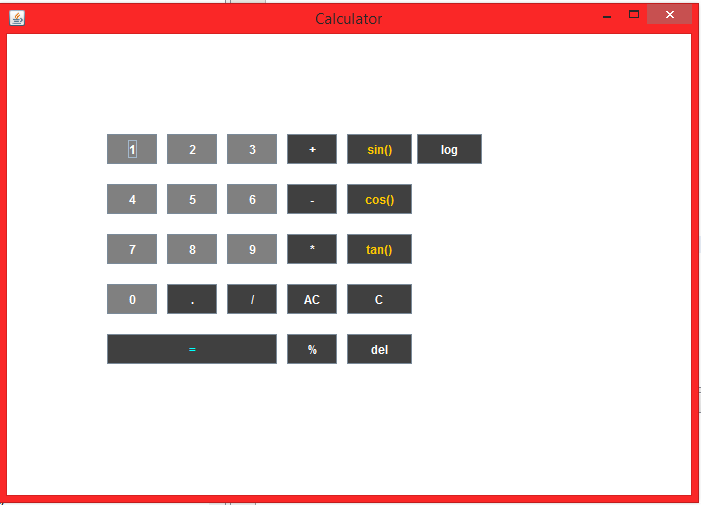
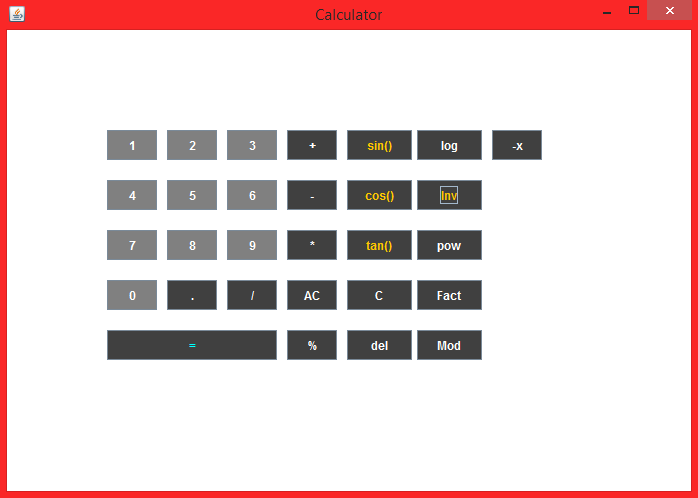
Added alittle more

diff --git a/CalcApp/src/calcapp/CalcApp.java b/CalcApp/src/calcapp/CalcApp.java
@@ -38,17 +38,27 @@ class myJButton extends JFrame implements ActionListener{
     JButton tanButt = new JButton("tan()");
     
     JButton logButt = new JButton("log");
+    JButton invButt = new JButton("Inv");
+    JButton powButt = new JButton("pow");
+    JButton factButt = new JButton("Fact");
+    JButton modButt = new JButton("Mod");
+    
+    JButton plusMinusButt = new JButton("-x");
     
     JButton percentButt= new JButton("%");
     JButton dotButt= new JButton(".");
     JButton equalButt= new JButton("=");
+    
     JButton addButt = new JButton("+");
     JButton subButt = new JButton("-");
     JButton mulButt = new JButton("*");
     JButton divButt = new JButton("/");
+    
     JButton clearButt = new JButton("AC");
     JButton screenClear=new JButton("C");
     JButton delButt = new JButton("del");
+    
+    
     JLabel screen = new JLabel("");
     JLabel prevNum=new JLabel("");
     JLabel operatorScreen=new JLabel("");
@@ -109,6 +119,26 @@ class myJButton extends JFrame implements ActionListener{
         logButt.setBackground(Color.darkGray);
         logButt.setForeground(Color.white);
         
+        invButt.setBounds(410, 150, 65, 30);
+        invButt.setBackground(Color.darkGray);
+        invButt.setForeground(Color.orange);
+        
+        powButt.setBounds(410,200,65,30);
+        powButt.setBackground(Color.darkGray);
+        powButt.setForeground(Color.white);
+        
+        factButt.setBounds(410,250,65,30);
+        factButt.setBackground(Color.darkGray);
+        factButt.setForeground(Color.white);
+        
+        modButt.setBounds(410,300, 65,30);
+        modButt.setBackground(Color.darkGray);
+        modButt.setForeground(Color.white);
+        
+        plusMinusButt.setBounds(485,100,50,30);
+        plusMinusButt.setBackground(Color.darkGray);
+        plusMinusButt.setForeground(Color.white);
+        
         screenClear.setBounds(340,250,65,30);
         screenClear.setBackground(Color.darkGray);
         screenClear.setForeground(Color.white);
@@ -166,7 +196,13 @@ class myJButton extends JFrame implements ActionListener{
         percentButt.addActionListener(this);
         
         logButt.addActionListener(this);
+        invButt.addActionListener(this);
+        powButt.addActionListener(this);
+        factButt.addActionListener(this);
+        modButt.addActionListener(this);
         
+        plusMinusButt.addActionListener(this);
+                
         sineButt.addActionListener(this);
         cosButt.addActionListener(this);
         tanButt.addActionListener(this);
@@ -187,8 +223,12 @@ class myJButton extends JFrame implements ActionListener{
         C1.add(cosButt);
         C1.add(tanButt);
         C1.add(delButt);
+        C1.add(invButt);
         
         C1.add(logButt);
+        C1.add(powButt);
+        C1.add(factButt);
+        C1.add(modButt);
         
         C1.add(screenClear);
         C1.add(clearButt);
@@ -200,13 +240,30 @@ class myJButton extends JFrame implements ActionListener{
         C1.add(dotButt);
         C1.add(percentButt);
         
+        C1.add(plusMinusButt);
+        
         C1.add(operatorScreen);
         C1.add(prevNum);
         C1.add(screen);
 
 
     }
-
+    
+        int inv_flag=0;
+        public void changeTrigono(){
+            if(inv_flag==0){
+                sineButt.setText("asin");
+                cosButt.setText("acos");
+                tanButt.setText("atan");
+                inv_flag=1;
+            }else{
+                sineButt.setText("sin()");
+                cosButt.setText("cos()");
+                tanButt.setText("tan()");
+                inv_flag=0;
+            }
+        }
+    
         public void showInScreen(JButton jButt){
             String result=screen.getText();
             if(jButt.getText().equals(".")){
@@ -280,6 +337,30 @@ class myJButton extends JFrame implements ActionListener{
             refresh=true;
         }
         
+        public void getFactorial(){
+            int num1=Integer.parseInt(screen.getText());
+            int fact=1;
+            for(int i=2;i<=num1;i++){
+                fact=fact*i;
+            }
+            screen.setText(Integer.toString(fact));
+        }
+        
+        public void changeSign(){
+            if(screen.getText().equals("")){
+                return;
+            }
+            double num1=Double.parseDouble(screen.getText());
+            if(num1>0){
+                num1=-num1;
+                plusMinusButt.setText("+x");
+            }else{
+                num1=abs(num1);
+                plusMinusButt.setText("-x");
+            }
+            screen.setText(Double.toString(num1));
+        }
+        
         public void handleDelete(){
             String result=screen.getText();
             int len=result.length();
@@ -293,16 +374,27 @@ class myJButton extends JFrame implements ActionListener{
             double result=Double.parseDouble(screen.getText());
             String op=operatorScreen.getText();
             String butt_text=jButt.getText();
-                if(butt_text.equals("sin()")){
-                  output=sin(result);
-                }else if(butt_text.equals("cos()")){
-                  output=cos(result);
-                }else if(butt_text.equals("tan()")){
-                  output=tan(result);
-                }else if(butt_text.equals("log")){
-                  output=log(output);  
-                }
-                screen.setText(Double.toString(output));
+            switch(butt_text){
+                case "sin()":
+                    output=sin(result);
+                    break;
+                case "cos()":
+                    output=cos(result);
+                    break;
+                case "tan()":
+                    output=tan(result);
+                    break;
+                case "asin":
+                    output=asin(result);
+                    break;
+                case "acos":
+                    output=acos(result);
+                    break;
+                case "atan":
+                    output=atan(result);
+                    break;
+            }
+            screen.setText(Double.toString(output));
             }
             catch(Exception e){
               return;  
@@ -319,6 +411,9 @@ class myJButton extends JFrame implements ActionListener{
                 return;
             }
             String op=jButt.getText();
+            if(op.equals("pow")){
+                op="^";
+            }
             String prevOp=operatorScreen.getText();
             int res=0;
             String result=screen.getText(); 
@@ -366,6 +461,16 @@ class myJButton extends JFrame implements ActionListener{
                     break;
                 case "%":
                     result=Double.toString((Double.parseDouble(num1)*Double.parseDouble(num2))/100);
+                    break;
+                case "^":
+                    result=Double.toString(pow(Double.parseDouble(num1),Double.parseDouble(num2)));
+                    break;
+                case "Mod":
+                    try{
+                        result=Integer.toString(Integer.parseInt(num1)%Integer.parseInt(num2));
+                    }catch(Exception e){
+                        result=Double.toString(Double.parseDouble(num1)%Double.parseDouble(num2));
+                    }
                     break;
             }
                 screen.setText(result);
@@ -438,10 +543,22 @@ class myJButton extends JFrame implements ActionListener{
                 if(e.getSource()==logButt){
                     handleTrigono(logButt);
                 }
+                if(e.getSource()==invButt){
+                    changeTrigono();
+                }
                 if(e.getSource()==tanButt){
                     handleTrigono(tanButt);
                 }if(e.getSource()==delButt){
                     handleDelete();
+                }if(e.getSource()==powButt){
+                    handleButton(powButt);
+                }if(e.getSource()==modButt){
+                    handleButton(modButt);
+                }
+                if(e.getSource()==factButt){
+                    getFactorial();
+                }if(e.getSource()==plusMinusButt){
+                    changeSign();
                 }
             }            
    
